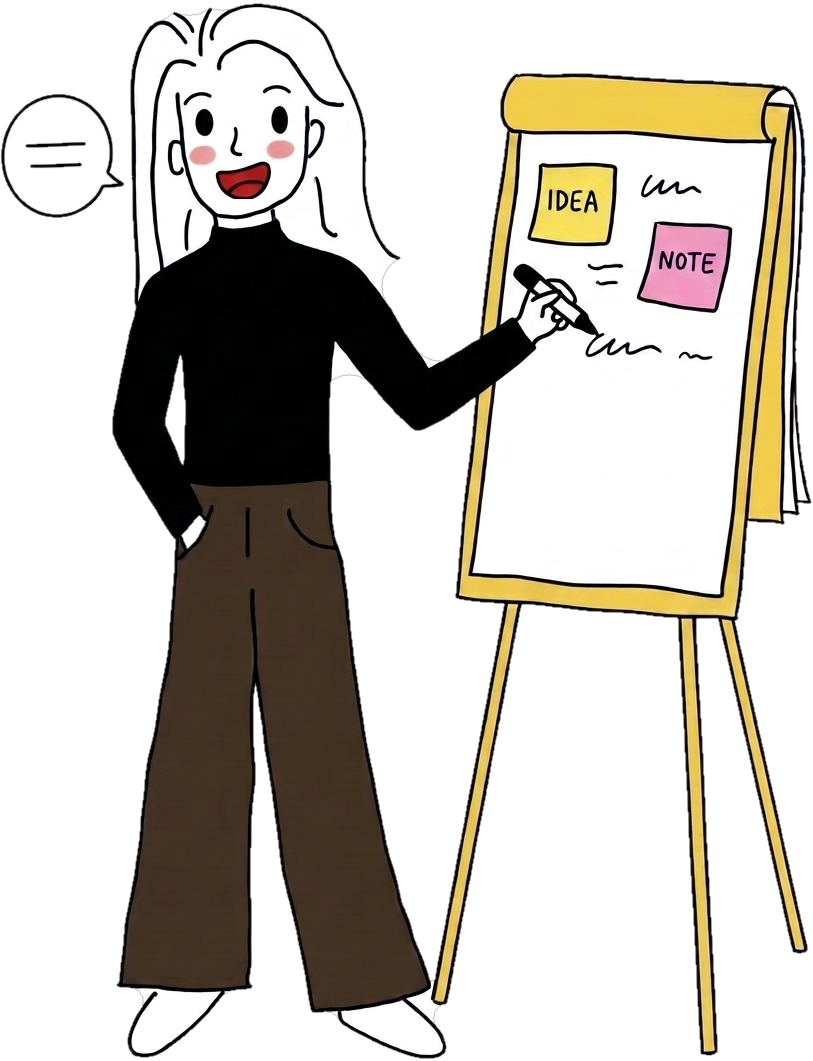
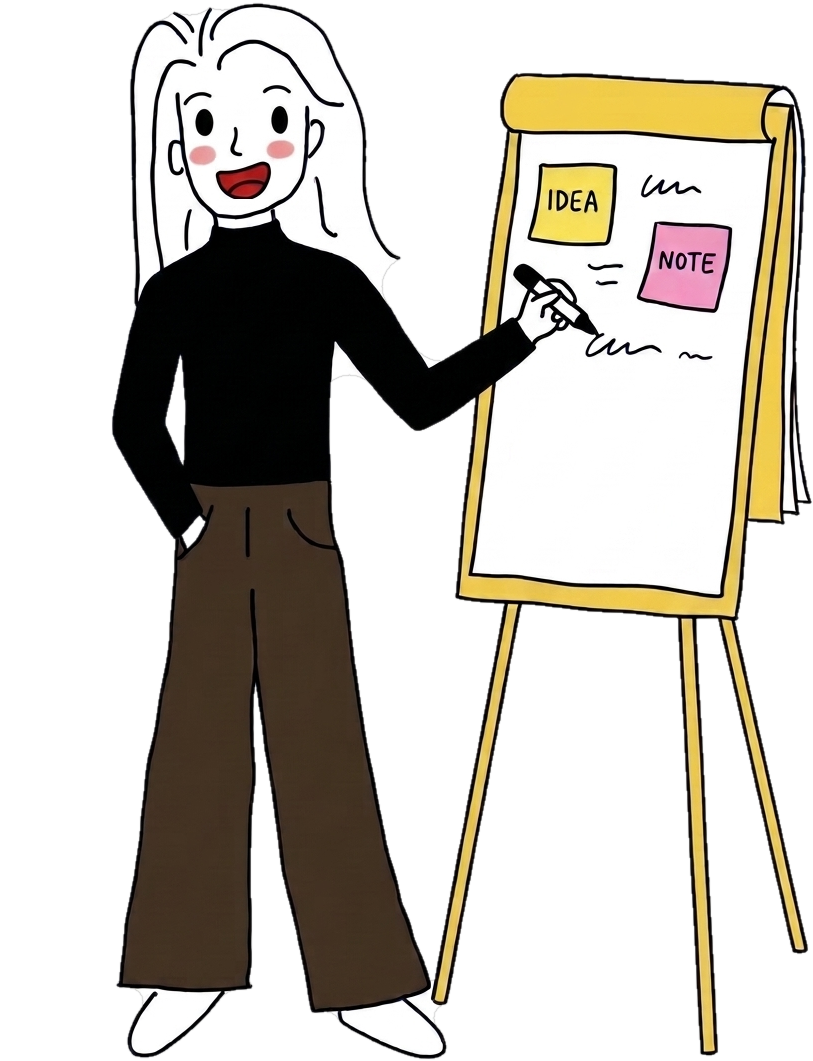
Researcher: no speech bubble; talks through the mouth, smiles on the full chart
Claude-Session: https://claude.ai/code/session_01J9C2DXKM7bDLRbWdCZy6Xg

diff --git a/index.html b/index.html
@@ -119,7 +119,7 @@ const [P,V]=await Promise.all([fetch('susan/projects.json').then(r=>r.json()),fe
 const ROLES={
  'Food Science':{key:'scientist',name:'Food scientist',col:'#273c93',seq:[0,1,2,3,3,3,2,1,0,0],ms:420,
    line:'Formally trained in food science at Cornell University, I develop products that help future-proof our health and our access to food.'},
- 'Consumer Research':{key:'researcher',name:'Consumer researcher',col:'#c27800',seq:['0t','1','2','3','3'],ms:700,
+ 'Consumer Research':{key:'researcher',name:'Consumer researcher',col:'#c27800',seq:['ta','tb','tc','3','3'],ms:650,
    line:'Professionally trained in sensory and qualitative research for three and a half years, shaping AI-powered research methodologies.'},
  'Design':{key:'designer',name:'Designer',col:'#d53626',seq:[2,2,2,3,1,3],ms:480,
    line:'Personally dabbling in branding, UI, digital marketing, content and photography, and finding ways to bring them all together.'}};
@@ -132,7 +132,7 @@ const N=P.length, TAU=Math.PI*2, STEP=TAU/N;
 // character images: 4 turnaround views + the role's own animation frames
 const imgs={};
 function add(name,flip){ const im=new Image(); im.src=`susan/img/${name}.png`; im.alt=''; if(flip) im.style.transform='scaleX(-1)'; me.appendChild(im); imgs[name+(flip?'-m':'')]={im,v:V[name],flip}; }
-['0t','1t','3t'].forEach(t=>add('researcher-'+t)); Object.values(ROLES).forEach(r=>{ for(let j=0;j<4;j++){ add(`${r.key}-v${j}`); add(`${r.key}-${j}`); } add(`${r.key}-v1`,1); add(`${r.key}-v2`,1); });
+['ta','tb','tc'].forEach(t=>add('researcher-'+t)); Object.values(ROLES).forEach(r=>{ for(let j=0;j<4;j++){ add(`${r.key}-v${j}`); add(`${r.key}-${j}`); } add(`${r.key}-v1`,1); add(`${r.key}-v2`,1); });
 let shown=null;
 function show(name){ const o=imgs[name]; if(!o) return; if(shown&&shown!==o) shown.im.classList.remove('on'); o.im.classList.add('on'); shown=o; place(o); }
 

diff --git a/plate.html b/plate.html
@@ -56,7 +56,7 @@
 const [P,V]=await Promise.all([fetch('susan/projects.json').then(r=>r.json()),fetch('susan/views.json').then(r=>r.json())]);
 const ROLES=[
  {cat:'Food Science',key:'scientist',name:'food scientist',col:'#273c93',seq:[0,1,2,3,3,3,2,1,0,0],ms:420},
- {cat:'Consumer Research',key:'researcher',name:'consumer researcher',col:'#c27800',seq:['0t','1','2','3','3'],ms:700},
+ {cat:'Consumer Research',key:'researcher',name:'consumer researcher',col:'#c27800',seq:['ta','tb','tc','3','3'],ms:650},
  {cat:'Design',key:'designer',name:'designer',col:'#d53626',seq:[2,2,2,3,1,3],ms:480}];
 const COURSE=['First course','Second course','Third course'];
 const LOCK=['sensory-bot','prebiotic-soda','alt-protein'];
@@ -65,7 +65,7 @@ const $=id=>document.getElementById(id), me=$('me'), stage=$('stage'), hero=$('h
 const reduce=matchMedia('(prefers-reduced-motion: reduce)').matches;
 const imgs={};
 function add(n,flip){ const im=new Image(); im.src=`susan/img/${n}.png`; im.alt=''; if(flip) im.style.transform='scaleX(-1)'; me.appendChild(im); imgs[n+(flip?'-m':'')]={im,v:V[n],flip}; }
-['0t','1t','3t'].forEach(t=>add('researcher-'+t)); ROLES.forEach(r=>{ for(let j=0;j<4;j++){ add(`${r.key}-v${j}`); add(`${r.key}-${j}`); } add(`${r.key}-v1`,1); add(`${r.key}-v2`,1); });
+['ta','tb','tc'].forEach(t=>add('researcher-'+t)); ROLES.forEach(r=>{ for(let j=0;j<4;j++){ add(`${r.key}-v${j}`); add(`${r.key}-${j}`); } add(`${r.key}-v1`,1); add(`${r.key}-v2`,1); });
 let shown=null, FH, cx, feetY;
 function layout(){ const W=stage.clientWidth, H=stage.clientHeight, sr=stage.getBoundingClientRect(), pr=document.querySelector('.p-plate').getBoundingClientRect(); cx=W/2; feetY=pr.top-sr.top+pr.height*.62; FH=Math.min(feetY*.92, W*.9); if(shown) place(shown); }
 function place(o){ const v=o.v, k=FH/(v.bot-v.top), fx=o.flip?v.w-v.fx:v.fx;

diff --git a/table/index.html b/table/index.html
@@ -63,7 +63,7 @@ const [P,M] = await Promise.all([fetch('projects.json').then(r=>r.json()), fetch
 const ROLES=[
   {key:'scientist', cat:'Food Science', col:'#273c93', name:'The food scientist', seq:[0,1,2,3,3,3,2,1,0,0], ms:420,
    line:'Formally trained in food science at Cornell University, I develop products that help future-proof our health and our access to food.'},
-  {key:'researcher', cat:'Consumer Research', col:'#f5a800', name:'The consumer researcher', seq:[4,1,2,3,3], ms:700,
+  {key:'researcher', cat:'Consumer Research', col:'#f5a800', name:'The consumer researcher', seq:[4,5,6,3,3], ms:650,
    line:'Professionally trained in sensory and qualitative research for three and a half years, shaping AI-powered research methodologies.'},
   {key:'designer', cat:'Design', col:'#d53626', name:'The designer', seq:[2,2,2,3,1,3], ms:480,
    line:'Personally dabbling in branding, UI, digital marketing, content and photography, and finding ways to bring them all together.'}
